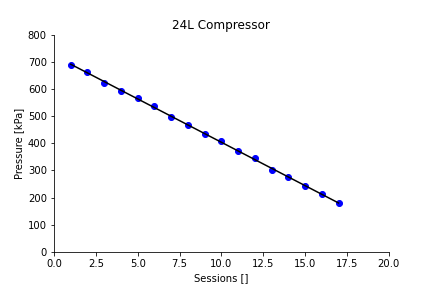
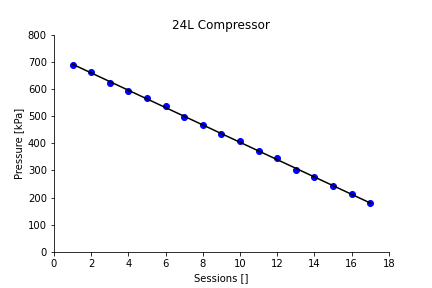
Updated x-axis

diff --git a/repository/CTSCPMAUTO/analysis_L24R2.py b/repository/CTSCPMAUTO/analysis_L24R2.py
@@ -100,7 +100,7 @@ plt.title('24L Compressor')
 # Create the plot
 plt.scatter(sessions, pressure, color='blue')
 plt.plot(sessions, pressure_pred, color='black')
-plt.xlim([0, 20])
+plt.xlim([0, 18])
 #plt.xticks([0, 5, 10, 15, 20], ['0', '5', '10', '15', '20'])
 plt.ylim([0, 800])
 
